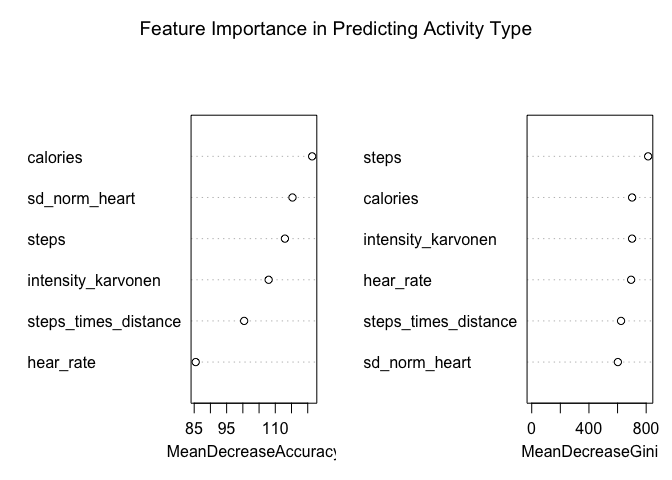
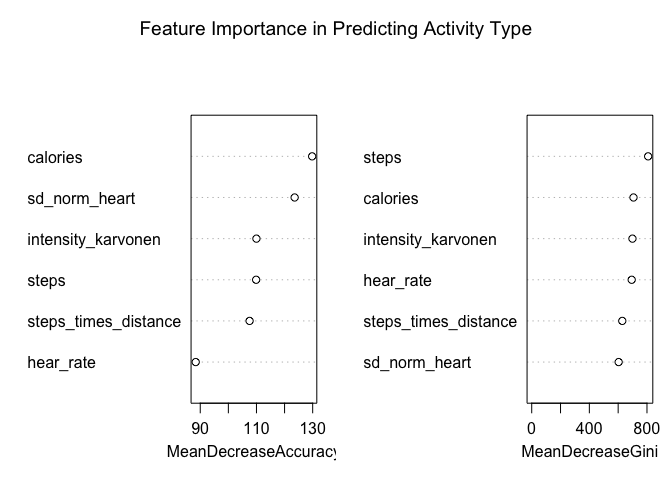
Cleaned up the markdown file to make it easier to read

diff --git a/wearable_health_data_analysis.md b/wearable_health_data_analysis.md
@@ -165,13 +165,13 @@ r2_value <- cor(test_data$hear_rate, predictions_hr)^2
 cat("Root Mean Square Error (RMSE):", rmse_value, "\n")
 ```
 
-    ## Root Mean Square Error (RMSE): 9.361865
+    ## Root Mean Square Error (RMSE): 9.365971
 
 ``` r
 cat("R-squared:", r2_value, "\n")
 ```
 
-    ## R-squared: 0.895882
+    ## R-squared: 0.8955892
 
 ``` r
 varImpPlot(rf_model_hr, main = "Feature Importance in Predicting Heart Rate")
@@ -200,52 +200,52 @@ print(conf_matrix_activity)
     ## 
     ##                 Reference
     ## Prediction       Lying Running 3 METs Running 5 METs Running 7 METs
-    ##   Lying            233             13              8              2
-    ##   Running 3 METs    22            170              4              0
-    ##   Running 5 METs     3              6            167              8
-    ##   Running 7 METs     5              1             13            173
-    ##   Self Pace walk     4              5              3              1
-    ##   Sitting           19              2              4             10
+    ##   Lying            237             15             11              3
+    ##   Running 3 METs    19            168              3              0
+    ##   Running 5 METs     3              5            166              8
+    ##   Running 7 METs     5              0             13            173
+    ##   Self Pace walk     4              7              2              1
+    ##   Sitting           18              2              4              9
     ##                 Reference
     ## Prediction       Self Pace walk Sitting
-    ##   Lying                       9      21
-    ##   Running 3 METs              4       2
-    ##   Running 5 METs              6      11
-    ##   Running 7 METs              5      18
-    ##   Self Pace walk            151       7
-    ##   Sitting                     9     133
+    ##   Lying                       8      20
+    ##   Running 3 METs              3       1
+    ##   Running 5 METs              5      11
+    ##   Running 7 METs              5      20
+    ##   Self Pace walk            154       8
+    ##   Sitting                     9     132
     ## 
     ## Overall Statistics
     ##                                           
-    ##                Accuracy : 0.8203          
-    ##                  95% CI : (0.7979, 0.8412)
+    ##                Accuracy : 0.8227          
+    ##                  95% CI : (0.8004, 0.8435)
     ##     No Information Rate : 0.2284          
-    ##     P-Value [Acc > NIR] : <2e-16          
+    ##     P-Value [Acc > NIR] : < 2.2e-16       
     ##                                           
-    ##                   Kappa : 0.7831          
+    ##                   Kappa : 0.7859          
     ##                                           
-    ##  Mcnemar's Test P-Value : 0.1694          
+    ##  Mcnemar's Test P-Value : NA              
     ## 
     ## Statistics by Class:
     ## 
     ##                      Class: Lying Class: Running 3 METs Class: Running 5 METs
-    ## Sensitivity                0.8147                0.8629                0.8392
-    ## Specificity                0.9451                0.9697                0.9677
-    ## Pos Pred Value             0.8147                0.8416                0.8308
-    ## Neg Pred Value             0.9451                0.9743                0.9696
+    ## Sensitivity                0.8287                0.8528                0.8342
+    ## Specificity                0.9410                0.9754                0.9696
+    ## Pos Pred Value             0.8061                0.8660                0.8384
+    ## Neg Pred Value             0.9489                0.9726                0.9687
     ## Prevalence                 0.2284                0.1573                0.1589
-    ## Detection Rate             0.1861                0.1358                0.1334
-    ## Detection Prevalence       0.2284                0.1613                0.1605
-    ## Balanced Accuracy          0.8799                0.9163                0.9035
+    ## Detection Rate             0.1893                0.1342                0.1326
+    ## Detection Prevalence       0.2348                0.1550                0.1581
+    ## Balanced Accuracy          0.8848                0.9141                0.9019
     ##                      Class: Running 7 METs Class: Self Pace walk Class: Sitting
-    ## Sensitivity                         0.8918                0.8207         0.6927
-    ## Specificity                         0.9603                0.9813         0.9585
-    ## Pos Pred Value                      0.8047                0.8830         0.7514
-    ## Neg Pred Value                      0.9797                0.9695         0.9451
+    ## Sensitivity                         0.8918                0.8370         0.6875
+    ## Specificity                         0.9594                0.9794         0.9604
+    ## Pos Pred Value                      0.8009                0.8750         0.7586
+    ## Neg Pred Value                      0.9797                0.9721         0.9443
     ## Prevalence                          0.1550                0.1470         0.1534
-    ## Detection Rate                      0.1382                0.1206         0.1062
-    ## Detection Prevalence                0.1717                0.1366         0.1414
-    ## Balanced Accuracy                   0.9260                0.9010         0.8256
+    ## Detection Rate                      0.1382                0.1230         0.1054
+    ## Detection Prevalence                0.1725                0.1406         0.1390
+    ## Balanced Accuracy                   0.9256                0.9082         0.8239
 
 ``` r
 varImpPlot(rf_model_activity, main = "Feature Importance in Predicting Activity Type")
